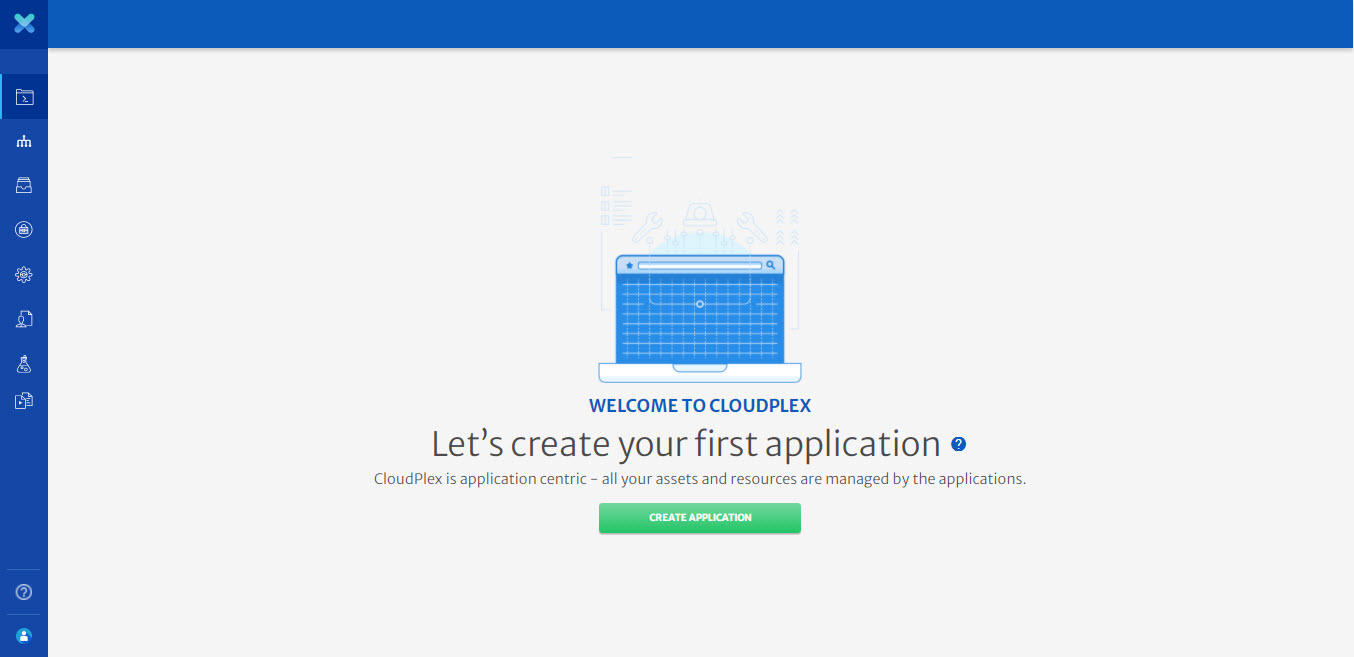
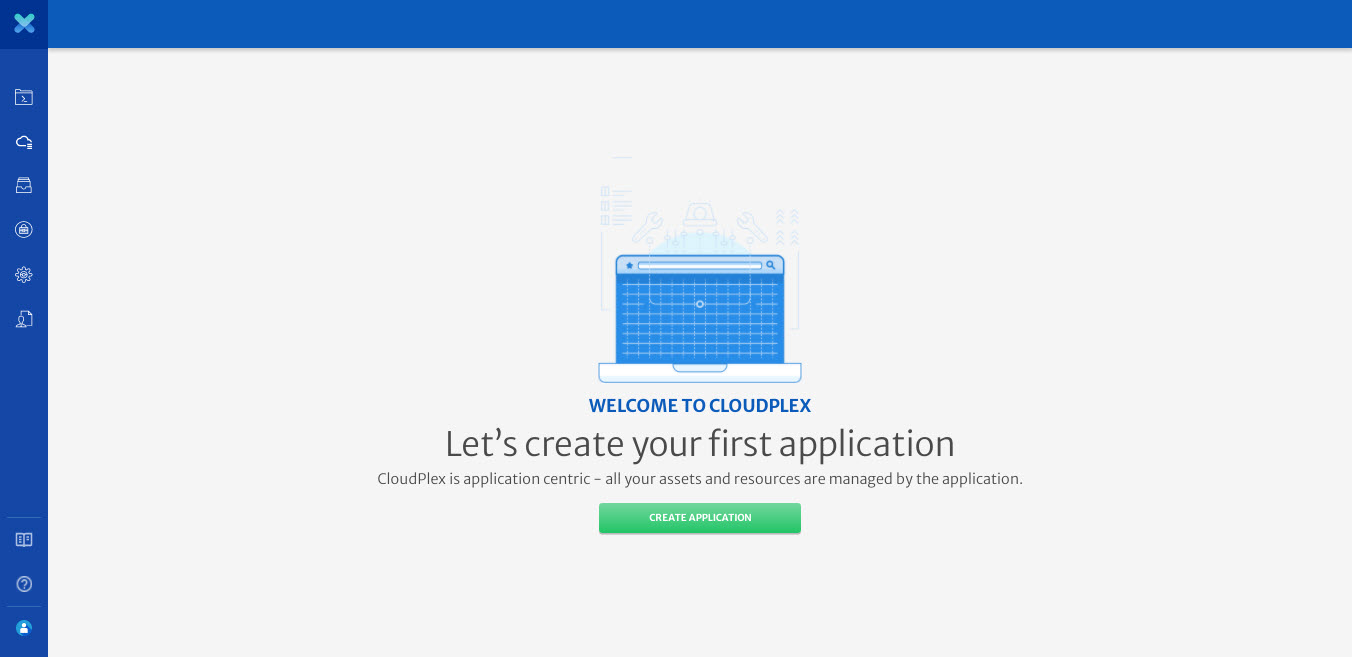
new-application

diff --git a/_sidebar.md b/_sidebar.md
@@ -1,12 +1,8 @@
 - Getting Started
   - [Getting Started](/pages/user-guide/getting-started/getting-started?id=getting-started)
-    - Create New Application
+    - [Create New Application](pages/user-guide/getting-started/create-new-application/create-new-application?id=create-new-application)
     - Discover Existing Application
     - [How to Configure Infrastructure](pages/user-guide/getting-started/how-to-configure-infrastructure/how-to-configure-infrastructure?id=how-to-configure-infrastructure)
-    - [Provider Managed - New Cluster](pages/user-guide/getting-started/pm-new-cluster/pm-new-cluster?id=provider-managed-new-kubernetes-cluster)
-    - [Provider Managed - Existing Cluster](pages/user-guide/getting-started/pm-existing-cluster/pm-existing-cluster?id=provider-managed-existing-kubernetes-cluster)
-    - [User Managed - New Cluster](pages/user-guide/getting-started/um-new-cluster/um-new-cluster?id=user-managed-new-kubernetes-cluster)
-    - [User Managed - New On-Premise Cluster](pages/user-guide/getting-started/um-new-op-cluster/um-new-op-cluster?id=user-managed-new-on-premise-kubernetes-cluster)
     - [Cloud Native Security Policy Management](pages/user-guide/getting-started/cloud-native-security-policy-management/cloud-native-security-policy-management?id=cloud-native-security-policy-management)
     - [Create & Use Provider Managed Cluster](pages/user-guide/getting-started/create-use-provider-managed-cluster/create-use-provider-managed-cluster?id=create-amp-use-provider-managed-cluster)
     - [Define RBAC for Kubernetes Application](pages/user-guide/getting-started/define-rbac-for-kubernetes-application/define-rbac-for-kubernetes-application?id=define-rbac-for-kubernetes-application)

diff --git a/pages/user-guide/getting-started/create-new-application/create-new-application.md b/pages/user-guide/getting-started/create-new-application/create-new-application.md
@@ -1,0 +1,27 @@
+# Create New Application
+
+In CloudPlex an intuitive drag and drop canvas can be used to design, configure, and deploy Kubernetes applications — without the pain of YAML manifest and config files. We understand that Kubernetes YAML configurations are complex so CloudPlex automatically generates and validates YAML manifest, and config files. 
+
+Here is a step by step guide on how you can design new application from scratch application using CloudPlex drag and drop view. 
+
+1. Click on the application icon from left pane and click **Create Application**.
+
+   ![1](imgs/1.jpg)
+
+2. **Select** create new application.
+
+   ![2](imgs/2.jpg)
+
+3. Configure the **Basic Info** tab and click **Next**.
+
+   ![3](imgs/3.jpg)
+
+4. Application builder view will open up.
+
+   - You can drag any service from left pane and drop it into the canvas to configure it.
+
+   > For detailed guide on how each service can be configured, please visit our Overview guide by clicking [here](/pages/user-guide/components/components?id=components). 
+
+   ![4](imgs/4.jpg)
+
+5. Using application designer, you can build an application and save it for future use or deploy it right away on an infrastructure. (To deploy, an existing infrastructure will be needed, click [here](/pages/user-guide/getting-started/how-to-configure-infrastructure/how-to-configure-infrastructure?id=how-to-configure-infrastructure) to learn more)

diff --git a/pages/user-guide/getting-started/getting-started.md b/pages/user-guide/getting-started/getting-started.md
@@ -37,6 +37,6 @@ For a step by step guide on how to configure and manage different type of applic
 
 > To deploy on application on cloud, it is necessary for the user cloud profile to have all the required permissions. For detailed guide on all the required permissions, click [here](/pages/user-guide/components/cloud-authorization-level/cloud-authorization-level).
 
-1. Create New Application
+1. [Create New Application](pages/user-guide/getting-started/create-new-application/create-new-application?id=create-new-application)
 2. Discover Existing Application
 3. [How to Configure Infrastructure](pages/user-guide/getting-started/how-to-configure-infrastructure/how-to-configure-infrastructure?id=how-to-configure-infrastructure)
